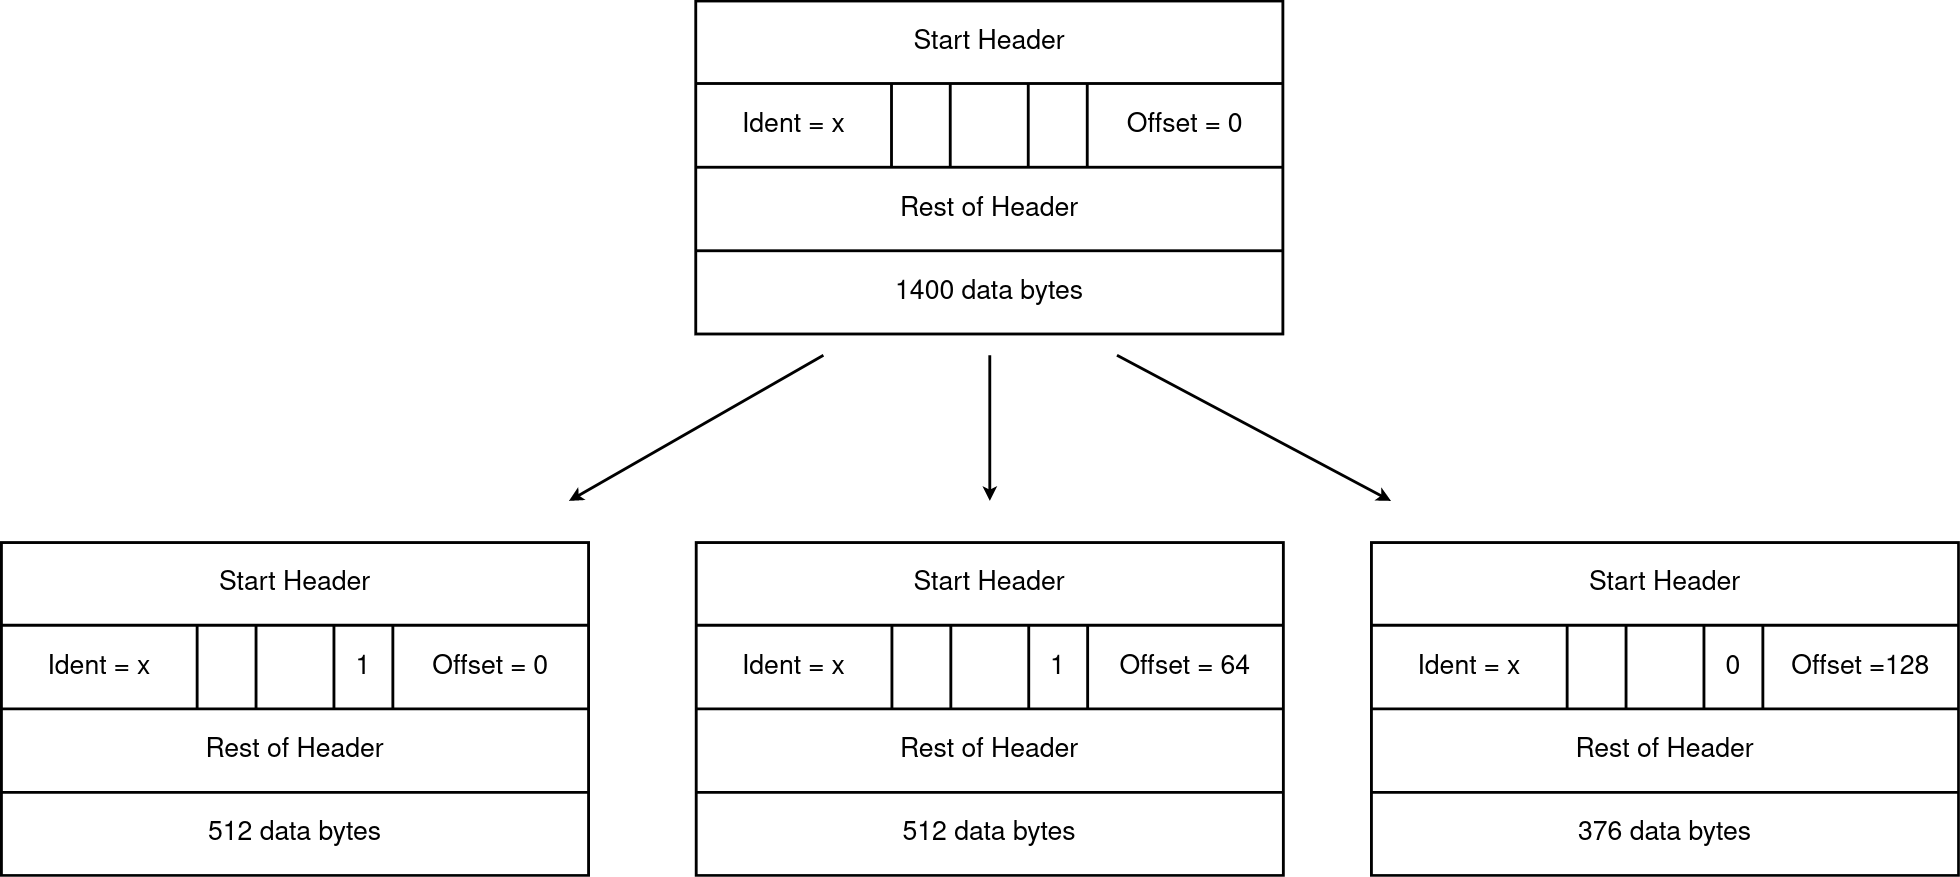
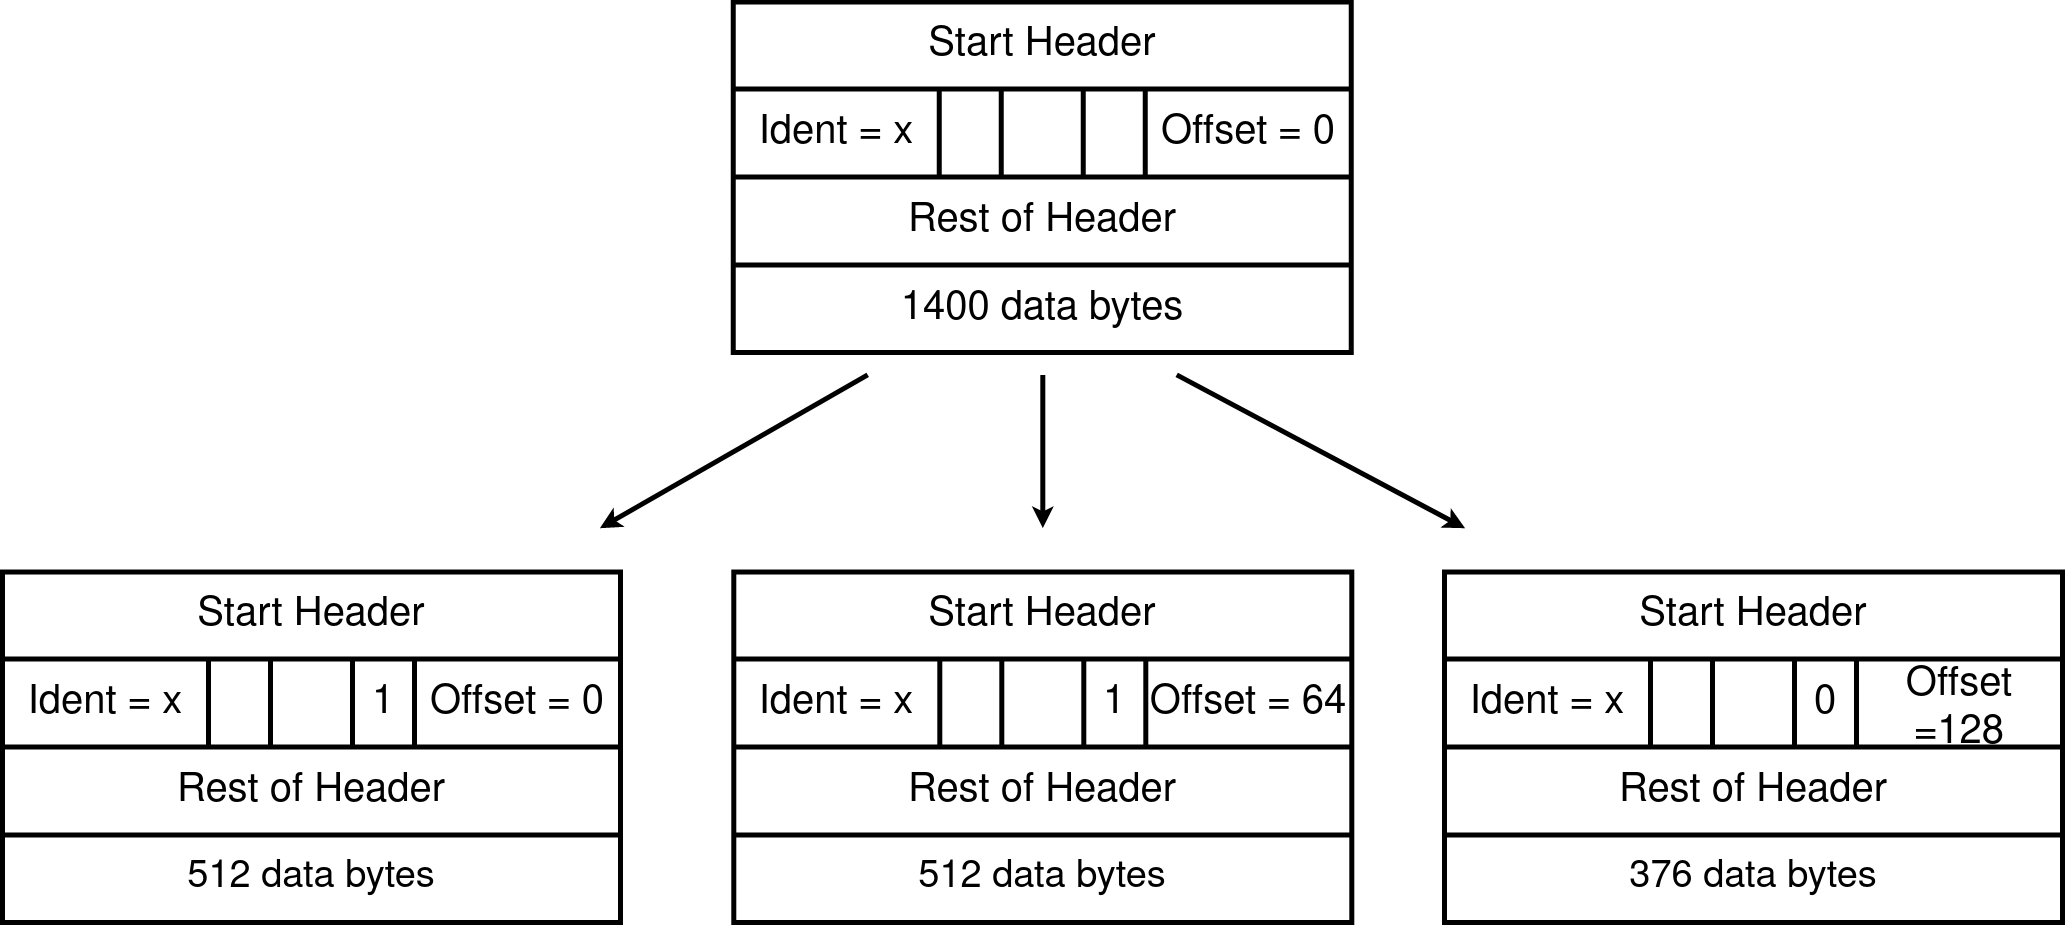
Done HW5 Part 2

diff --git a/src/Chapter5.tex b/src/Chapter5.tex
@@ -137,7 +137,7 @@
     \setcounter{section}{3}
 
 
-    \section{Task}
+    \section{Task}\label{sec:task-4}
     An unfragmented IP packet, shown in Fig 5-2(a), has 1400 bytes of data and a 20-byte IP header.
     When the packet arrives at router RA, which has an MTU of 532 bytes, it has to be fragmented.
     The 3 fragmented packets are shown in Fig 5-2(b).
@@ -148,7 +148,7 @@
     \end{enumerate}
 
     \begin{center}
-        \includegraphics[width=1.1\textwidth]{figs/Task4}
+        \includegraphics[width=1\textwidth]{figs/Task4}
     \end{center}
 
     \newpage
@@ -170,6 +170,154 @@
     The initial packet size is 1400 bytes.
     Thus, if it was directly send to router RB, the number of packets would be:
     $1400/380 \approx 3.6 = 4$ packets.
+    \newpage
+
+
+    \section{Task}\label{sec:task-5}
+    What is the maximum bandwidth at which an IP host can send 576-byte packets
+    without having the Ident field wrap around within 60 seconds?
+    Suppose that IP’s maximum segment lifetime (MSL) is 60 seconds;
+    that is, delayed packets can arrive up to 60 seconds late but no later.
+    What might happen if this bandwidth were exceeded?
+
+    \subsection{Solution}
+    IP packets contain Ident field with 16 bits len.
+    So in total we have $2^{16}$ unique Indents.
+    As they shouldn't be repeated during transmission, we obtain the following formulas:
+
+    \begin{subequations}
+        \begin{equation}
+            \frac{576 * 2^{16} * 8}{60} \approx 5033164.8 \hspace{4} bps
+        \end{equation}
+
+        \begin{equation}
+            5033164.8 \hspace{4} bps = 629145.6 \hspace{4} Bps = 614.4 \hspace{4} KiBps
+        \end{equation}
+    \end{subequations}
+
+    \paragraph{Answer:} 614 KiBps
+    \newpage
+
+
+    \section{Task}\label{sec:task-6}
+    An organization has been assigned the prefix 200.1.1.0/24 and wants to form subnets for four
+    departments, with hosts as follows:
+    \vspace{15}
+
+    \begin{minipage}{.5\textwidth}
+        \begin{itemize}
+            \item Department A 72 hosts
+            \item Department B 35 hosts
+        \end{itemize}
+    \end{minipage}
+    \begin{minipage}{.5\textwidth}
+        \begin{itemize}
+            \item Department C 20 hosts
+            \item Department D 18 hosts
+        \end{itemize}
+    \end{minipage}
+
+    \begin{enumerate}
+        \item Give a possible arrangement of subnet masks to make this possible.
+        \item Suggest what the organization might do if department D grows to 34 hosts.
+    \end{enumerate}
+
+    \subsection{Solution}
+    Each department has different number of supporting hosts,
+    so we need to preserve enough bits in IP address for each department.
+
+    \paragraph{1.}
+
+    \textbf{Department A:}
+    \begin{center}
+        72 hosts $< 2^7 \longrightarrow$ \textbf{Range:} 200.1.1.0 -- 200.1.1.127; \textbf{Mask:} 255.255.255.0 \\
+        11001000 00000001 00000001 0$\mid$xxxxxxx \\
+    \end{center}
+
+    \textbf{Department B:}
+    \begin{center}
+        35 $< 2^6 \longrightarrow$ \textbf{Range:} 200.1.1.128 -- 200.1.1.191; \textbf{Mask:} 255.255.255.128 \\
+        11001000 00000001 00000001 10$\mid$xxxxxx \\
+    \end{center}
+
+    \textbf{Department C:}
+    \begin{center}
+        20 $< 2^5 \longrightarrow$ \textbf{Range:} 200.1.1.192 -- 200.1.1.223; \textbf{Mask:} 255.255.255.192 \\
+        11001000 00000001 00000001 111$\mid$xxxxx\\
+    \end{center}
+
+    \textbf{Department D:}
+    \begin{center}
+        18 $< 2^5 \longrightarrow$ \textbf{Range:} 200.1.1.224 -- 200.1.1.256; \textbf{Mask:} 255.255.255.224 \\
+        11001000 00000001 00000001 110$\mid$xxxxx \\
+    \end{center}
+
+    \begin{center}
+        \includegraphics[width=0.75\textwidth]{figs/Sol6-1}
+    \end{center}
+
+    \paragraph{2.}
+    If the number of hosts in department D increases up to 34 host, subnets should be reassigned.
+    For this case, department D requires subnet with prefix '/26'.
+    However, department B already takes subnet with prefix '/26' and department A with prefix '/25'.
+    Therefore, there will be no subnet for department C.
+    Thus, it is not possible to arrange subnets for such four department in network with prefix '/24'
+
+    \newpage
+
+
+    \section{Task}
+    A router has just received the following new IP addresses: 57.6.96.0/21, 57.6.104.0/21, 57.6.112.0/21,
+    and 57.6.120.0/21.
+    If all of them use the same outgoing line, can they be aggregated?
+    If so, to what?
+    If not, why not?
+
+    \subsection{Solution}
+    Firstly, let us convert all addresses to binary format:
+
+    \begin{center}
+        \textbf{57.6.96.0/21:} 00111001 \hspace{3} 00000110 \hspace{3}01100000 \hspace{3}00000000 \\
+        \textbf{57.6.104.0/21:} 00111001 \hspace{3} 00000110 \hspace{3}01110000 \hspace{3}00000000 \\
+        \textbf{57.6.112.0/21:} 00111001 \hspace{3} 00000110 \hspace{3}01111000 \hspace{3}00000000 \\
+        \textbf{57.6.120.0/21:} 00111001 \hspace{3}00000110 \hspace{3}01111100 \hspace{3}00000000 \\
+    \end{center}
+
+    The aggregated IP address is 57.6.96.0 with a subnet mask of /19.
+    \newpage
+
+
+    \section{Task}
+    Given the network in Fig 5-3, determine the routing table of R2 by aggregating the routes.
+    The main entries of the routing table are shown in Table 5-3.
+
+     \begin{center}
+        \includegraphics[width=0.75\textwidth]{figs/task8}
+    \end{center}
+
+    \subsection{Solution}
+
+    \begin{table}[H]
+        \centering
+        \begin{tabular}{|c|c|c|c|c|}
+            \hline
+            \textbf{Destination} & \textbf{Mask} & \textbf{Next-hop} & \textbf{Interface} & \textbf{Metric} \\
+            \hline
+            \hline
+            211.14.5.0 & 255.255.255.220 & 211.14.3.2 & S0 &  2 \\
+            \hline
+            211.14.5.128 & 255.255.255.220 & 211.14.3.2 & S0 & 2 \\
+            \hline
+            211.14.5.220 & 255.25.255.220 & Directly & E1 & 1 \\
+            \hline
+            196.17.20.128 & 255.255.255.220 & 196.17.20.128 & E0 & 1 \\
+            \hline
+            196.17.20.0 & 255.255.255.220 & 196.17.24.2 & S1 & 2 \\
+            \hline
+            196.17.21.0 & 255.255.255.220 & 196.17.24.2 & S1 & 2 \\
+            \hline
+        \end{tabular}\label{tab:table-8}
+    \end{table}
 
 
 \end{document}
